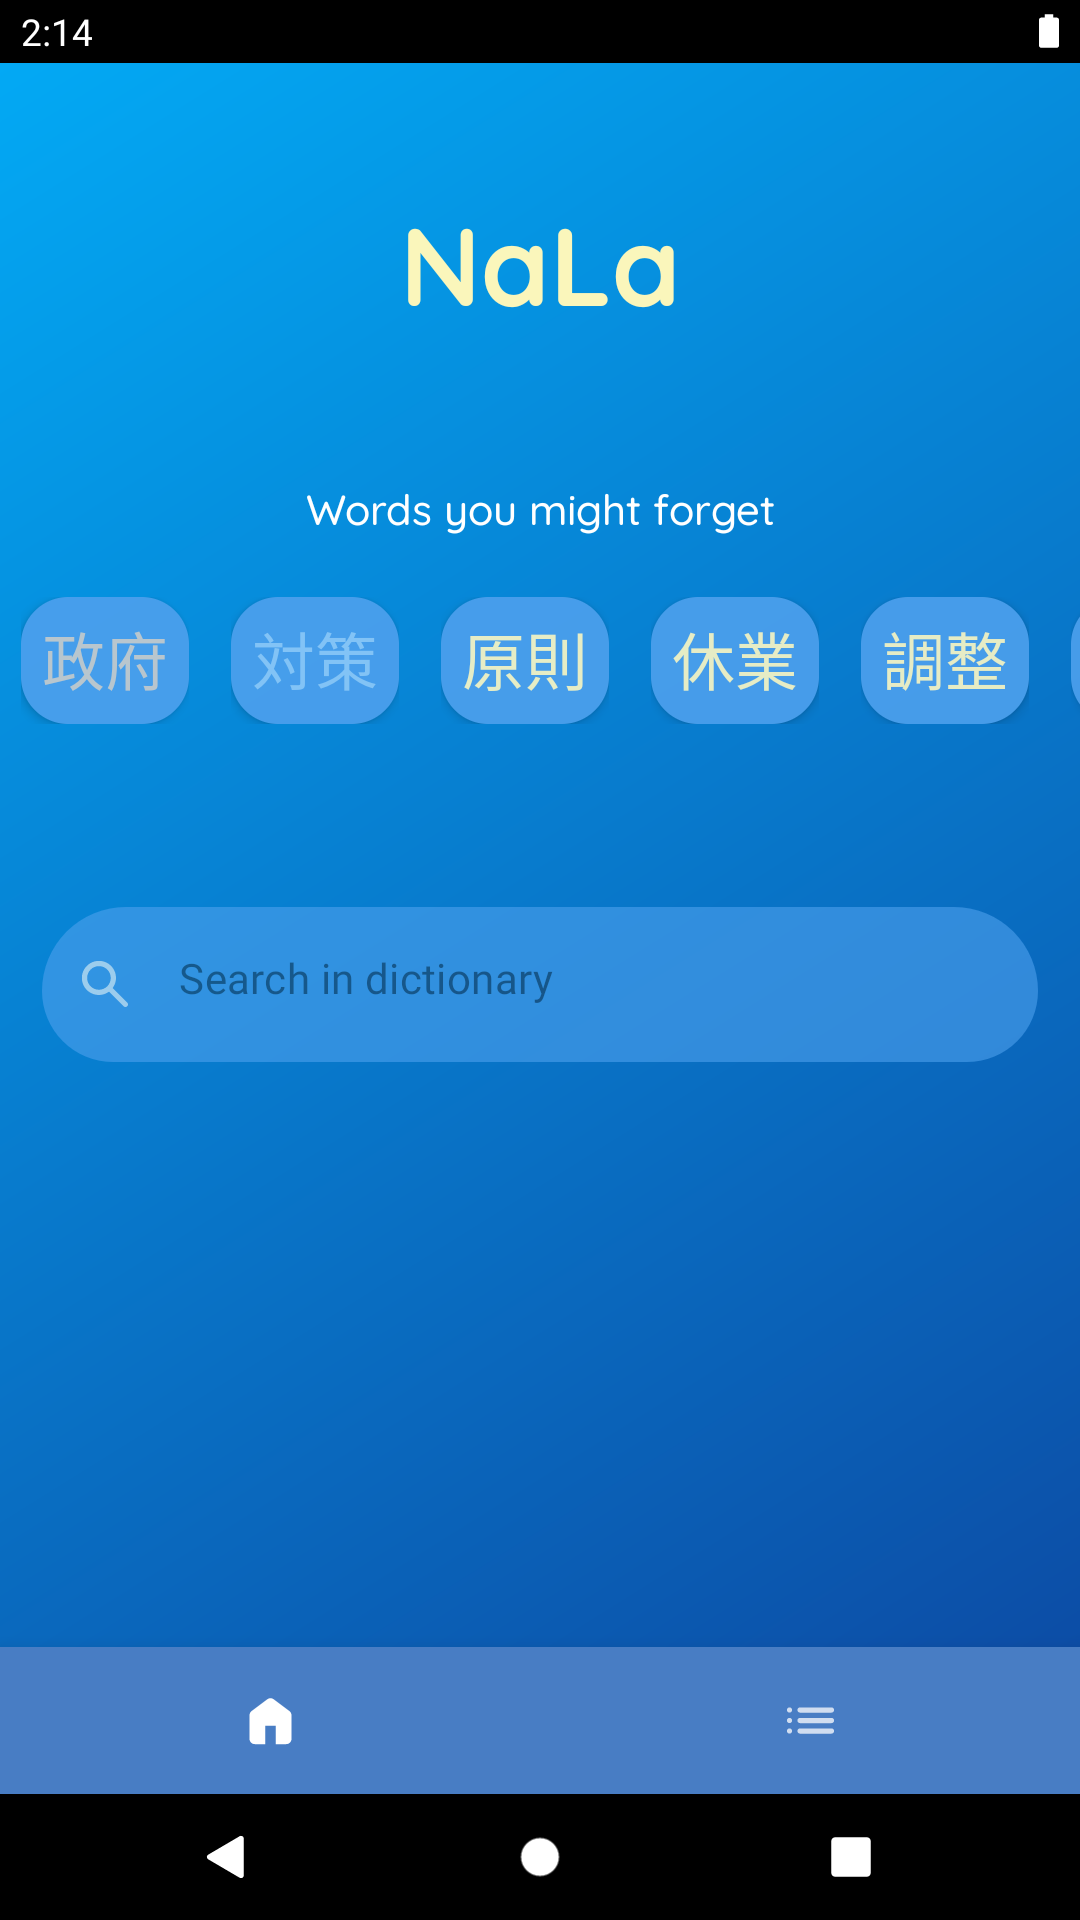
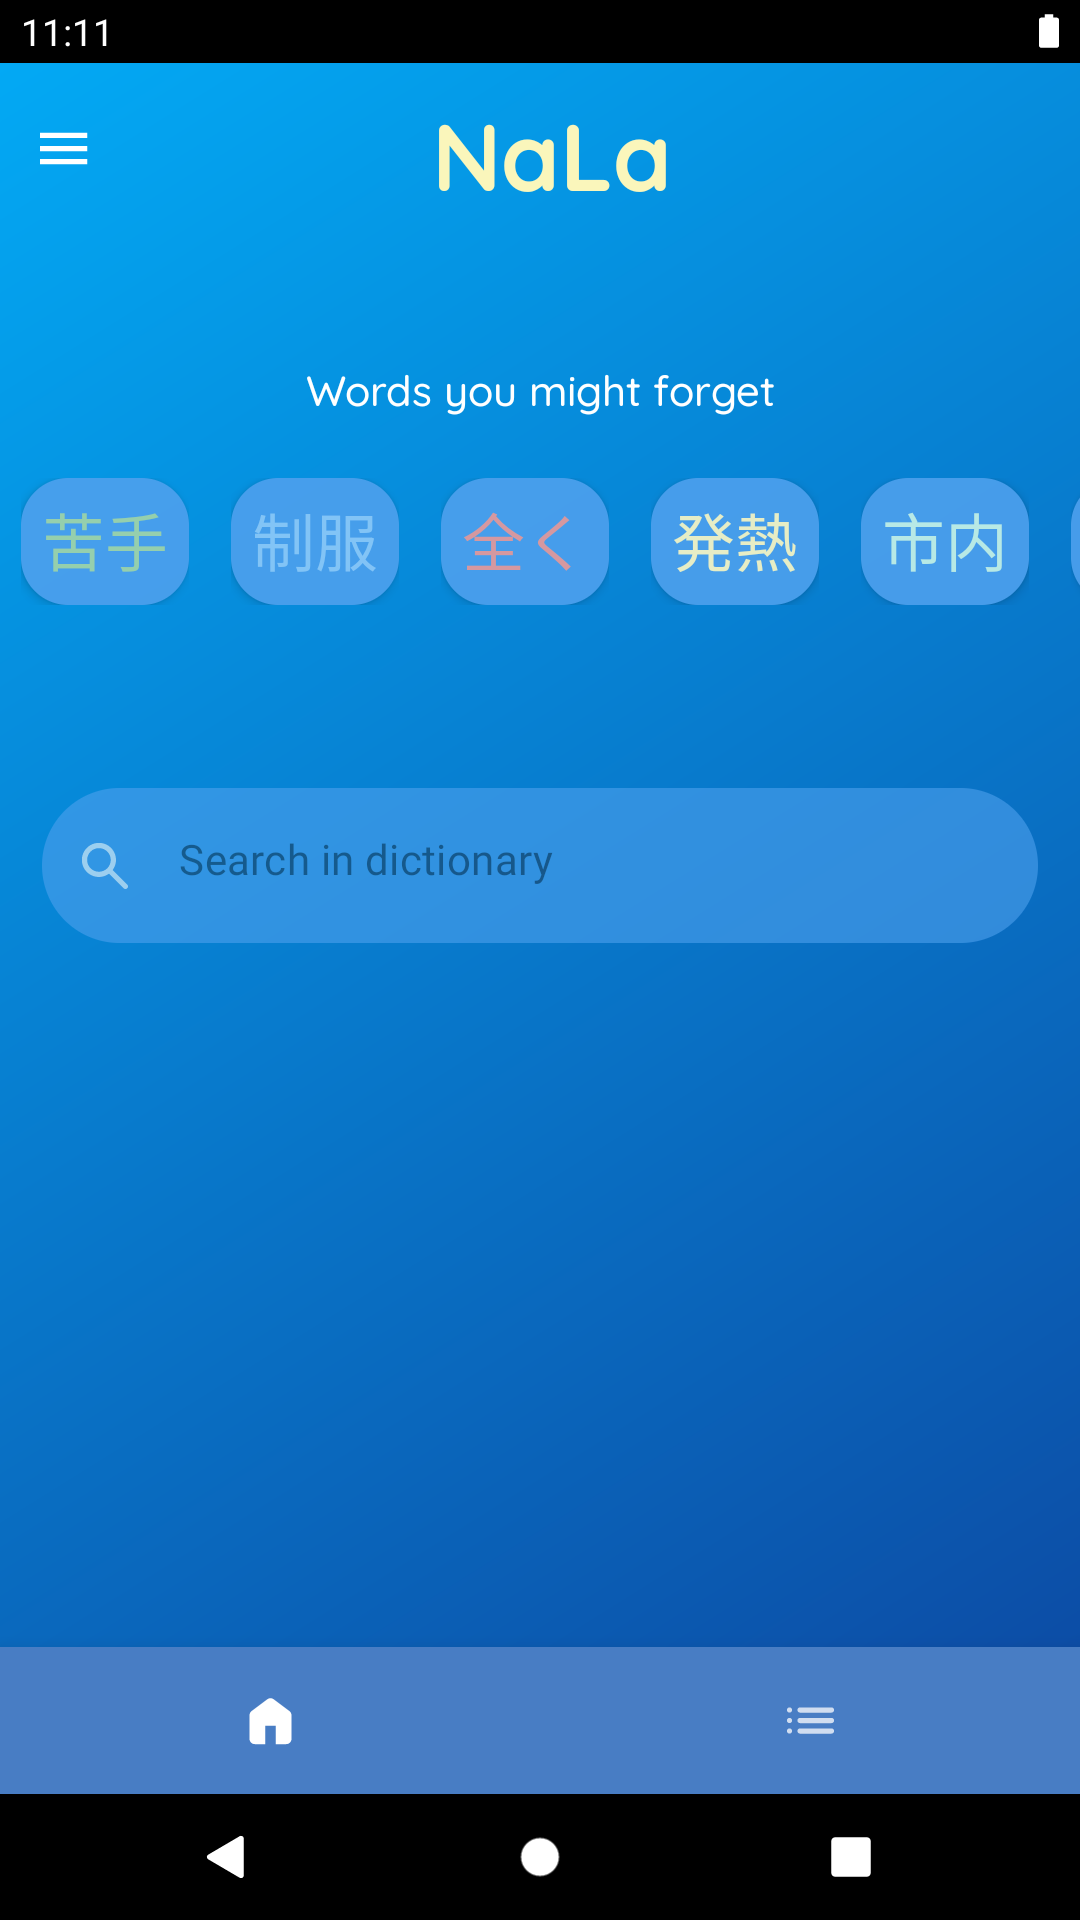
Updated Readme

diff --git a/README.md b/README.md
@@ -47,7 +47,15 @@ Home
 | <img src="screens/app-screenshot-added-to-review.png" width="400">  | <img src="screens/app-screenshot-study-screen-music.png" width="400">  |
 | <img src="screens/app-screenshot-kanji-detail.png" width="400">  | <img src="screens/app-screenshot-similar-sentences.png" width="400">  |
 | <img src="screens/app-screenshot-word-reviews.png" width="400">  | <img src="screens/app-screenshot-sentence-reviews.png" width="400"> |
+| <img src="screens/app-screenshot-article-lookup.png" width="400"> | <img src="screens/app-screenshot-settings.png" width="400"> | 
 
+| Videos                             |
+| <img src="screens/app-screenshot-video-first.png" width="400">  | <img src="screens/app-screenshot-video-second.png" width="400">  |
+| <img src="screens/app-screenshot-video-third.png" width="400">  | <img src="screens/app-screenshot-video-second.png" width="400">  |
+| <img src="screens/app-screenshot-drawer.png" width="400">  | <img src="screens/app-screenshot-video-second.png" width="400">  |
+
+| Saved items                             |
+| <img src="screens/app-screenshot-saved-videos.png" width="400">  | <img src="screens/app-screenshot-saved-articles.png" width="400">  |
 ## Author
 
 **Mirco Cardinale**
